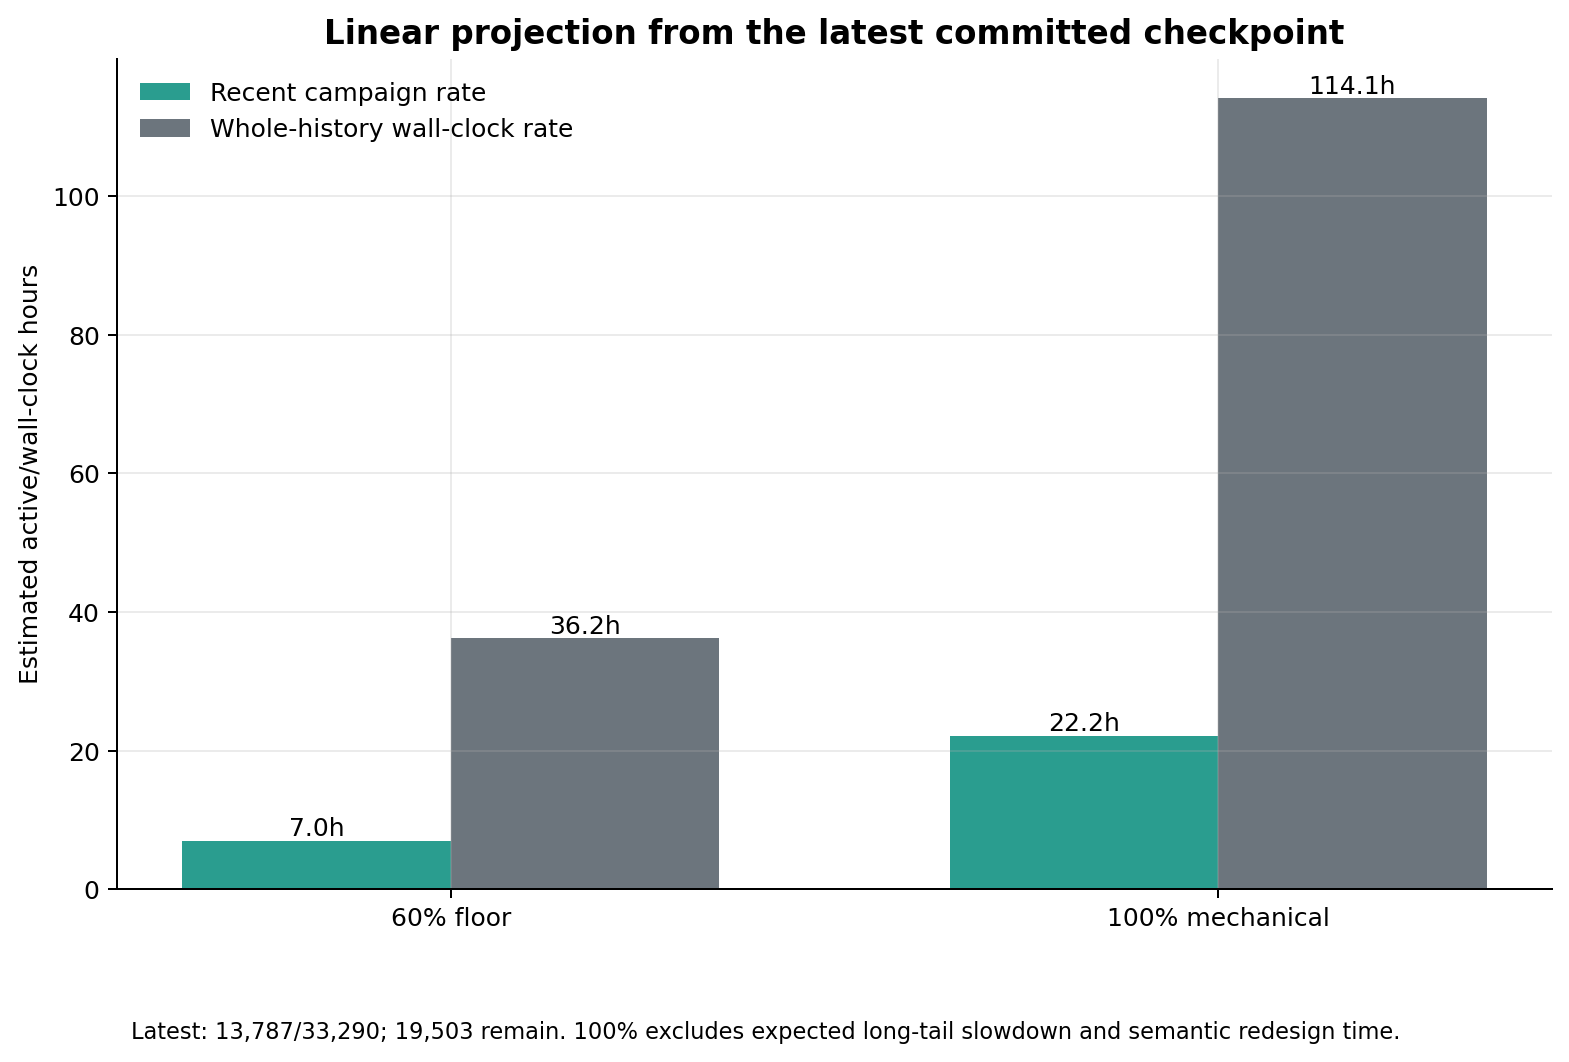
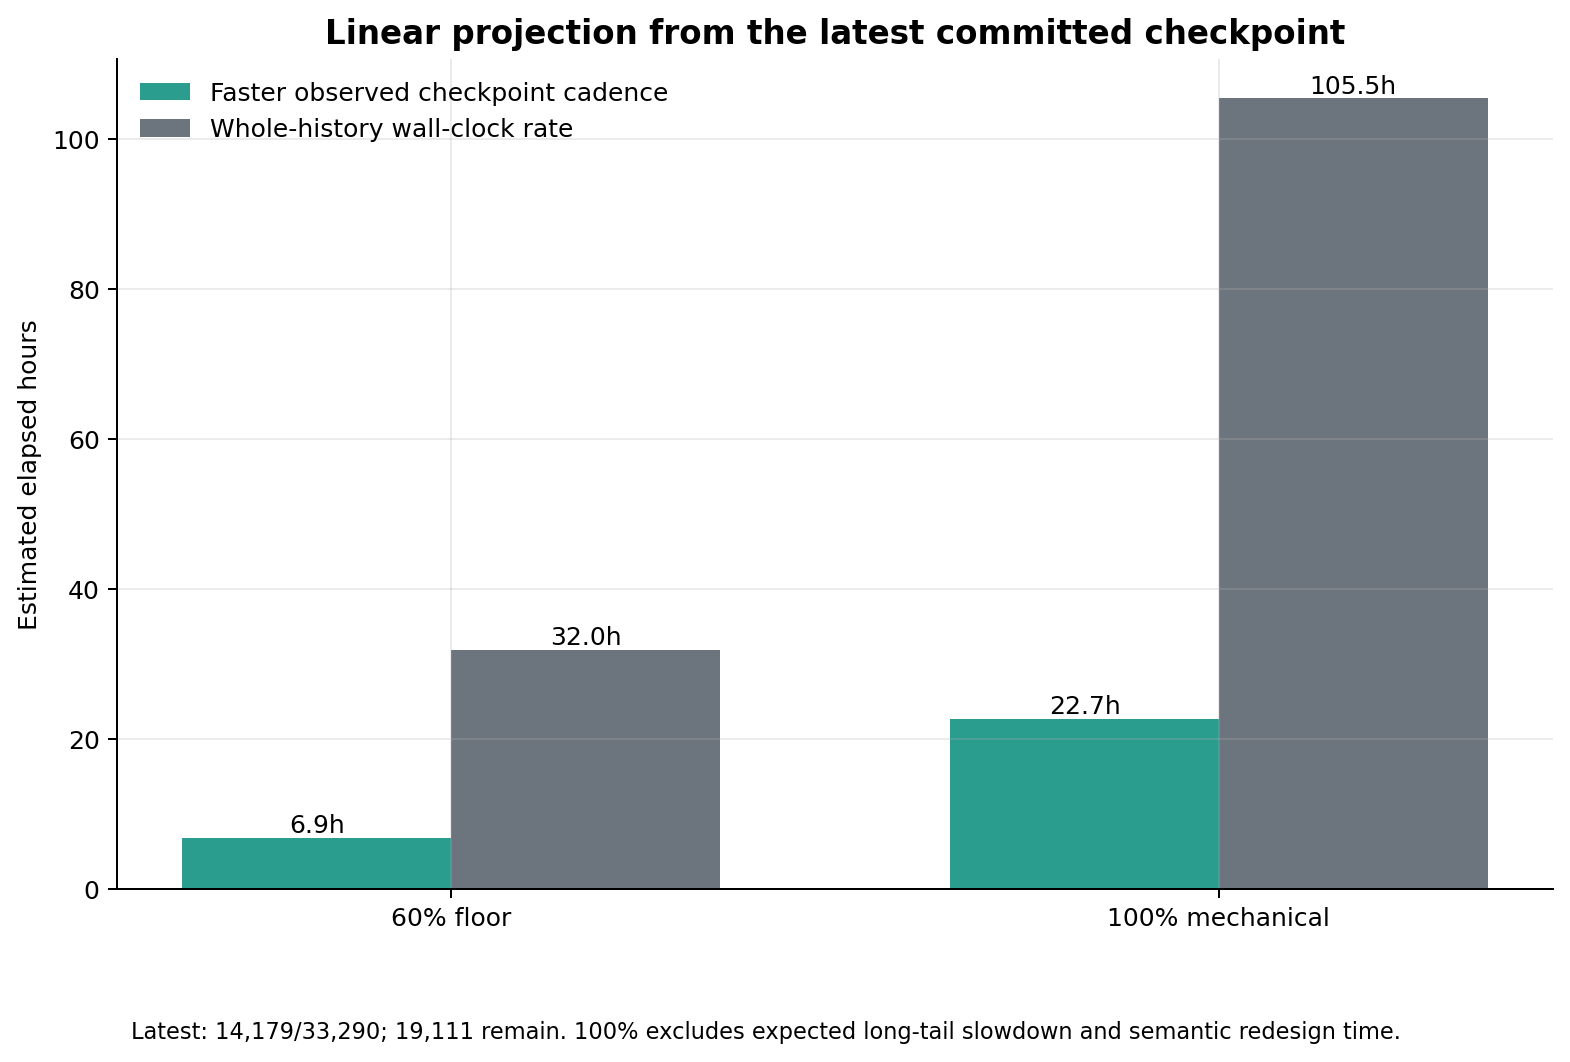
docs: refresh T3.3 coverage projection

diff --git a/reports/progress/t3.3-script-coverage-2026-07-12/generate_report.py b/reports/progress/t3.3-script-coverage-2026-07-12/generate_report.py
@@ -94,19 +94,10 @@ def committed_points() -> list[Point]:
                 )
             )
             seen.add(path)
-    # Generated timestamps are the checkpoint clock. Sort by them and remove stale
-    # evidence whose after-count moves backward relative to a later committed checkpoint.
+    # Generated timestamps are the checkpoint clock. Keep reviewed downward
+    # corrections visible; removing them would bias throughput upward.
     rows.sort(key=lambda row: (row.timestamp, row.evidence_commit))
-    monotonic: list[Point] = []
-    max_scripts = -1
-    max_uses = -1
-    for row in rows:
-        if row.complete_scripts < max_scripts or row.mapped_uses < max_uses:
-            continue
-        monotonic.append(row)
-        max_scripts = row.complete_scripts
-        max_uses = row.mapped_uses
-    return [Point(index=i + 1, **{k: v for k, v in row.__dict__.items() if k != "index"}) for i, row in enumerate(monotonic)]
+    return [Point(index=i + 1, **{k: v for k, v in row.__dict__.items() if k != "index"}) for i, row in enumerate(rows)]
 
 
 def hours(delta_seconds: float) -> float:
@@ -129,16 +120,16 @@ def projections(points: list[Point]) -> dict[str, float]:
     first, latest = points[0], points[-1]
     elapsed = max(hours((latest.timestamp - first.timestamp).total_seconds()), 0.01)
     historical_rate = (latest.complete_scripts - first.complete_scripts) / elapsed
-    recent = points[-5:]
-    interval_rates = []
-    for left, right in zip(recent, recent[1:]):
-        dt = hours((right.timestamp - left.timestamp).total_seconds())
-        gain = right.complete_scripts - left.complete_scripts
-        if dt > 0 and gain > 0:
-            interval_rates.append(gain / dt)
-    recent_rate = statistics.median(interval_rates) if interval_rates else historical_rate
+    recent = points[-6:]
+    recent_elapsed = max(hours((recent[-1].timestamp - recent[0].timestamp).total_seconds()), 0.01)
+    recent_rate = (recent[-1].complete_scripts - recent[0].complete_scripts) / recent_elapsed
+    interval_rates = [
+        (right.complete_scripts - left.complete_scripts)
+        / max(hours((right.timestamp - left.timestamp).total_seconds()), 0.01)
+        for left, right in zip(recent, recent[1:])
+    ]
     low_rate = max(historical_rate, 1.0)
-    high_rate = max(recent_rate, low_rate)
+    high_rate = max(recent_rate, low_rate, 1.0)
     return {
         "historical_rate": historical_rate,
         "recent_rate": recent_rate,
@@ -215,14 +206,14 @@ def plot_projection(points: list[Point], projection: dict[str, float]) -> None:
     x = range(len(targets))
     fig, ax = plt.subplots(figsize=(9, 6))
     width = 0.35
-    ax.bar([i - width / 2 for i in x], fast, width, label="Recent campaign rate", color="#2a9d8f")
+    ax.bar([i - width / 2 for i in x], fast, width, label="Faster observed checkpoint cadence", color="#2a9d8f")
     ax.bar([i + width / 2 for i in x], slow, width, label="Whole-history wall-clock rate", color="#6c757d")
     for i, value in enumerate(fast):
         ax.text(i - width / 2, value, f"{value:.1f}h", ha="center", va="bottom")
     for i, value in enumerate(slow):
         ax.text(i + width / 2, value, f"{value:.1f}h", ha="center", va="bottom")
     ax.set_xticks(list(x), targets)
-    style_axis(ax, "Linear projection from the latest committed checkpoint", "Estimated active/wall-clock hours")
+    style_axis(ax, "Linear projection from the latest committed checkpoint", "Estimated elapsed hours")
     ax.legend(frameon=False)
     ax.text(
         0.01,
@@ -241,6 +232,10 @@ def write_report(points: list[Point], projection: dict[str, float]) -> None:
     first, latest = points[0], points[-1]
     gained_scripts = latest.complete_scripts - first.complete_scripts
     gained_uses = latest.mapped_uses - first.mapped_uses
+    corrections = sum(
+        right.complete_scripts < left.complete_scripts or right.mapped_uses < left.mapped_uses
+        for left, right in zip(points, points[1:])
+    )
     text = f"""# Forge 2.0 T3.3 Script Coverage Progress
 
 Generated from committed local `reports/gates/T3.3` evidence and local git history only. No live metrics, network access, installs, GitHub Actions, or pushes were used.
@@ -250,20 +245,26 @@ Generated from committed local `reports/gates/T3.3` evidence and local git histo
 - Latest committed checkpoint: **{latest.complete_scripts:,}/{latest.total_scripts:,} complete scripts ({latest.complete_percent:.2f}%)**.
 - Mapped ability uses: **{latest.mapped_uses:,}/{latest.total_uses:,} ({latest.mapped_percent:.2f}%)**.
 - Owner-priority scripts complete: **{latest.priority_complete:,}/365**.
-- Across this evidence series: **+{gained_scripts:,} complete scripts** and **+{gained_uses:,} mapped uses** over {len(points)} monotonic committed checkpoints.
+- Across this evidence series: **+{gained_scripts:,} complete scripts** and **+{gained_uses:,} mapped uses** over {len(points)} committed checkpoints, including **{corrections} reviewed downward correction(s)**.
 - T3.3 60% floor remaining: **{max(0, math.ceil(0.60 * latest.total_scripts) - latest.complete_scripts):,} scripts**.
 - Mechanical 100% remaining: **{latest.total_scripts - latest.complete_scripts:,} scripts**.
 
 ## Projection
 
-The recent campaign median is **{projection['recent_rate']:.0f} complete scripts/hour** across the latest campaign intervals; the whole-series wall-clock rate is **{projection['historical_rate']:.0f}/hour**. Linear projection gives:
+The recent six-checkpoint net cadence is **{projection['recent_rate']:.0f} complete scripts/hour**; the whole-series wall-clock rate is **{projection['historical_rate']:.0f}/hour**. These rates use elapsed time between evidence timestamps, not measured hands-on work time. Linear projection gives:
 
-| Target | Recent campaign rate | Whole-history wall-clock rate |
+| Target | Faster observed checkpoint cadence | Whole-history wall-clock rate |
 |---|---:|---:|
 | 60% T3.3 floor | {projection['to_60_fast_hours']:.1f} h | {projection['to_60_slow_hours']:.1f} h |
 | 100% mechanical coverage | {projection['to_100_fast_hours']:.1f} h | {projection['to_100_slow_hours']:.1f} h |
 
-These are trend scenarios, not delivery promises. The recent rate assumes compatible high-yield families remain available and work continues in dense batches. The historical rate includes inactive gaps and small experimental batches. The 100% estimate is especially optimistic because the tail shifts toward linked abilities, open selectors, unsupported values, replacement effects, and rules requiring new semantic design; actual time can be several times the linear estimate, and some items may appropriately remain quarantined until later runtime work.
+These are trend scenarios, not delivery promises. Neither rate measures active engineering time. The faster rate assumes compatible high-yield families remain available and work continues in dense batches. The historical rate includes inactive gaps and small experimental batches. The 100% estimate is especially optimistic because the tail shifts toward linked abilities, open selectors, unsupported values, replacement effects, and rules requiring new semantic design; actual time can be several times the linear estimate, and some items may appropriately remain quarantined until later runtime work.
+
+## Independent Review Corrections
+
+Ampere's review found two P1 fail-open paths and one P2 test gap in an earlier mapper batch. The source-zone issue now lowers closed source moves through `MoveZoneFrom(source, origin, destination)`, retaining the legacy no-op guard when the source is not in the declared origin. `RestrictValid` now checks each complete branch against an exact closed vocabulary, rejecting approved-prefix extensions such as `Spell.Runtime.Arbitrary`. Focused regressions now cover dynamic restricted-mana amounts, both dynamic Dig counts, and subtype removal across Continuous, Animate, and AnimateAll. These findings temporarily invalidated the older false-positive checkpoint; the current exact checkpoint was regenerated after remediation.
+
+Downward corrections are retained in the CSV and plots. Projections use net changes rather than deleting regressions or ignoring nonpositive intervals.
 
 ## How Coverage Is Being Built
 
@@ -279,7 +280,7 @@ These are trend scenarios, not delivery promises. The recent rate assumes compat
 
 - `coverage_over_time.png` shows complete-script and mapped-use percentages at committed checkpoints.
 - `checkpoint_throughput.png` shows the gain associated with each evidence checkpoint; the sequence maps to `checkpoint_series.csv`.
-- `coverage_projection.png` compares recent-campaign and whole-history linear scenarios.
+- `coverage_projection.png` compares faster observed-checkpoint and whole-history linear scenarios.
 - `checkpoint_series.csv` is the machine-readable series, including evidence and mapper commits.
 
 ## Important Boundary

diff --git a/reports/progress/t3.3-script-coverage-2026-07-12/REPORT.md b/reports/progress/t3.3-script-coverage-2026-07-12/REPORT.md
@@ -4,23 +4,29 @@ Generated from committed local `reports/gates/T3.3` evidence and local git histo
 
 ## Snapshot
 
-- Latest committed checkpoint: **13,787/33,290 complete scripts (41.41%)**.
-- Mapped ability uses: **22,247/43,649 (50.97%)**.
+- Latest committed checkpoint: **14,179/33,290 complete scripts (42.59%)**.
+- Mapped ability uses: **22,322/43,649 (51.14%)**.
 - Owner-priority scripts complete: **200/365**.
-- Across this evidence series: **+4,785 complete scripts** and **+6,227 mapped uses** over 42 monotonic committed checkpoints.
-- T3.3 60% floor remaining: **6,187 scripts**.
-- Mechanical 100% remaining: **19,503 scripts**.
+- Across this evidence series: **+5,177 complete scripts** and **+6,302 mapped uses** over 44 committed checkpoints, including **1 reviewed downward correction(s)**.
+- T3.3 60% floor remaining: **5,795 scripts**.
+- Mechanical 100% remaining: **19,111 scripts**.
 
 ## Projection
 
-The recent campaign median is **878 complete scripts/hour** across the latest campaign intervals; the whole-series wall-clock rate is **171/hour**. Linear projection gives:
+The recent six-checkpoint net cadence is **842 complete scripts/hour**; the whole-series wall-clock rate is **181/hour**. These rates use elapsed time between evidence timestamps, not measured hands-on work time. Linear projection gives:
 
-| Target | Recent campaign rate | Whole-history wall-clock rate |
+| Target | Faster observed checkpoint cadence | Whole-history wall-clock rate |
 |---|---:|---:|
-| 60% T3.3 floor | 7.0 h | 36.2 h |
-| 100% mechanical coverage | 22.2 h | 114.1 h |
+| 60% T3.3 floor | 6.9 h | 32.0 h |
+| 100% mechanical coverage | 22.7 h | 105.5 h |
 
-These are trend scenarios, not delivery promises. The recent rate assumes compatible high-yield families remain available and work continues in dense batches. The historical rate includes inactive gaps and small experimental batches. The 100% estimate is especially optimistic because the tail shifts toward linked abilities, open selectors, unsupported values, replacement effects, and rules requiring new semantic design; actual time can be several times the linear estimate, and some items may appropriately remain quarantined until later runtime work.
+These are trend scenarios, not delivery promises. Neither rate measures active engineering time. The faster rate assumes compatible high-yield families remain available and work continues in dense batches. The historical rate includes inactive gaps and small experimental batches. The 100% estimate is especially optimistic because the tail shifts toward linked abilities, open selectors, unsupported values, replacement effects, and rules requiring new semantic design; actual time can be several times the linear estimate, and some items may appropriately remain quarantined until later runtime work.
+
+## Independent Review Corrections
+
+Ampere's review found two P1 fail-open paths and one P2 test gap in an earlier mapper batch. The source-zone issue now lowers closed source moves through `MoveZoneFrom(source, origin, destination)`, retaining the legacy no-op guard when the source is not in the declared origin. `RestrictValid` now checks each complete branch against an exact closed vocabulary, rejecting approved-prefix extensions such as `Spell.Runtime.Arbitrary`. Focused regressions now cover dynamic restricted-mana amounts, both dynamic Dig counts, and subtype removal across Continuous, Animate, and AnimateAll. These findings temporarily invalidated the older false-positive checkpoint; the current exact checkpoint was regenerated after remediation.
+
+Downward corrections are retained in the CSV and plots. Projections use net changes rather than deleting regressions or ignoring nonpositive intervals.
 
 ## How Coverage Is Being Built
 
@@ -36,7 +42,7 @@ These are trend scenarios, not delivery promises. The recent rate assumes compat
 
 - `coverage_over_time.png` shows complete-script and mapped-use percentages at committed checkpoints.
 - `checkpoint_throughput.png` shows the gain associated with each evidence checkpoint; the sequence maps to `checkpoint_series.csv`.
-- `coverage_projection.png` compares recent-campaign and whole-history linear scenarios.
+- `coverage_projection.png` compares faster observed-checkpoint and whole-history linear scenarios.
 - `checkpoint_series.csv` is the machine-readable series, including evidence and mapper commits.
 
 ## Important Boundary